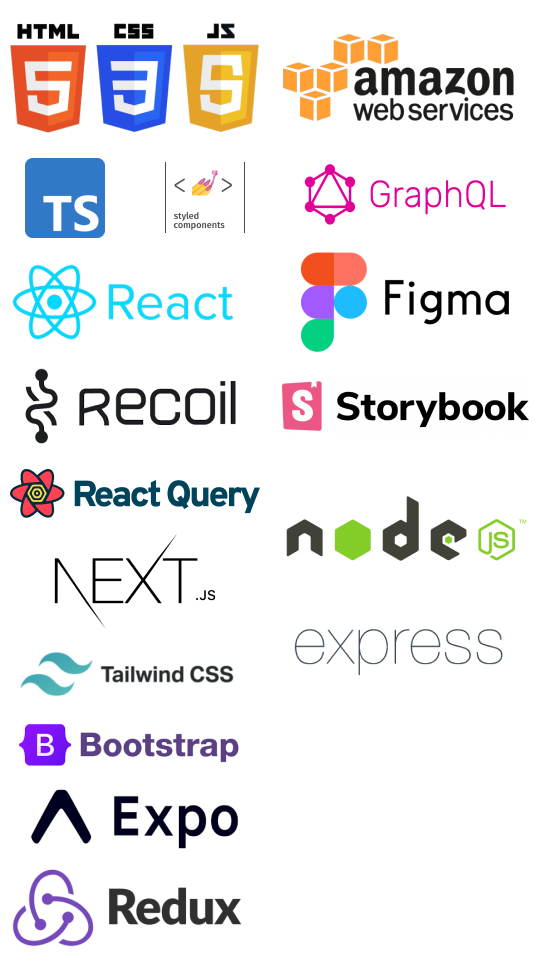
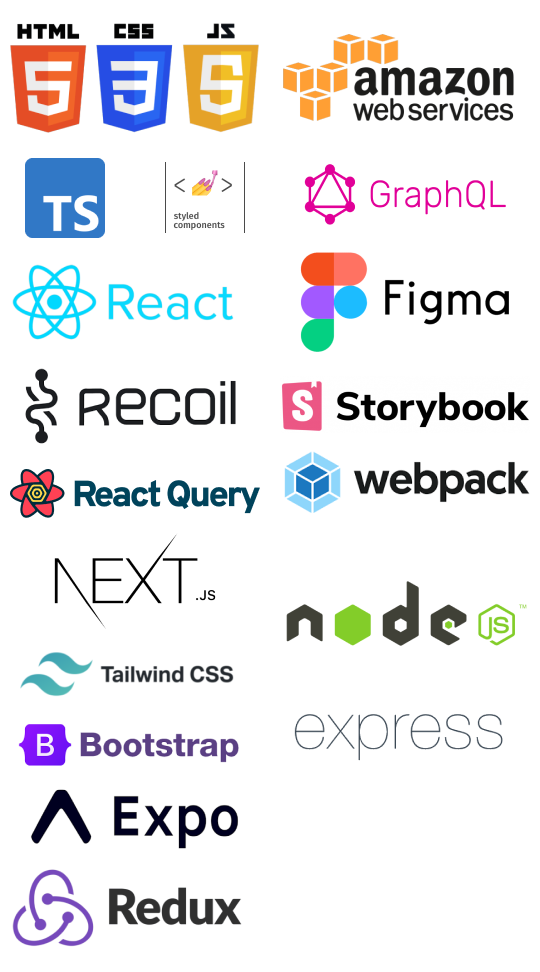
chore : stacks 이미지 수정

Changed region(s): [[0.5037, 0.463, 0.9778, 0.679], [0.7111, 0.7407, 0.9481, 0.7716], [0.5333, 0.7407, 0.6815, 0.7716]]

diff --git a/components/section/Skills.tsx b/components/section/Skills.tsx
@@ -51,11 +51,11 @@ const Card = styled.div<CardProps>`
   .backend {
     width: 250px;
     height: 221px;
-    background: url("stacks.png") -280px -466px;
+    background: url("stacks.png") -280px -551px;
   }
   .experienced {
     width: 250px;
-    height: 436px;
+    height: 521px;
     background: url("stacks.png") -280px -10px;
   }
 `;
